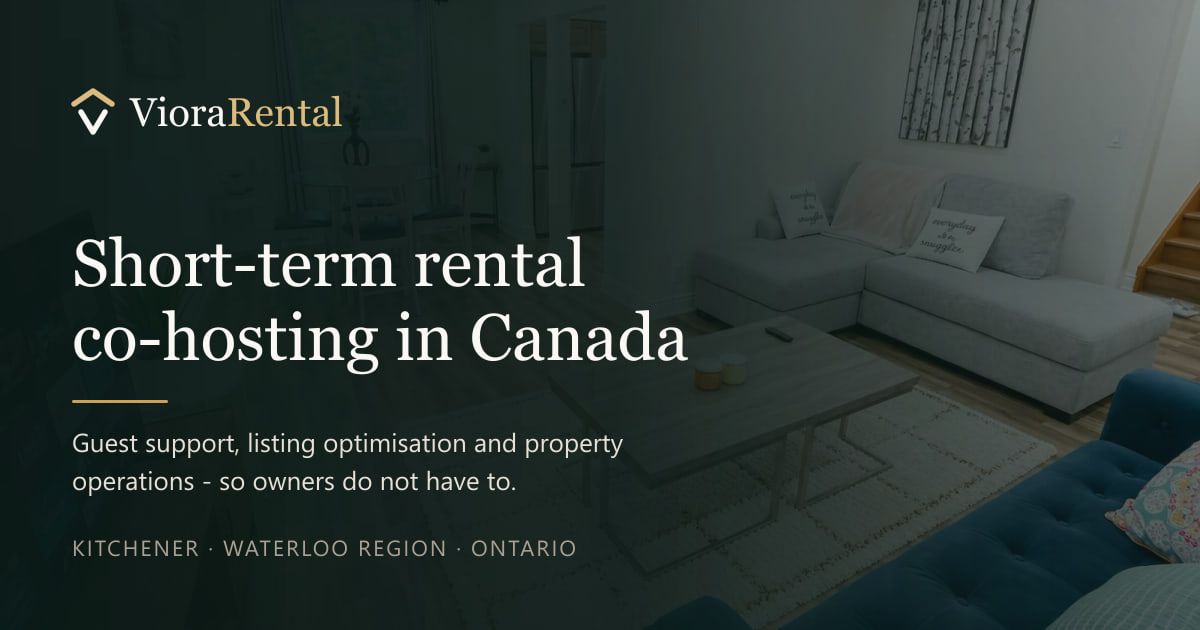
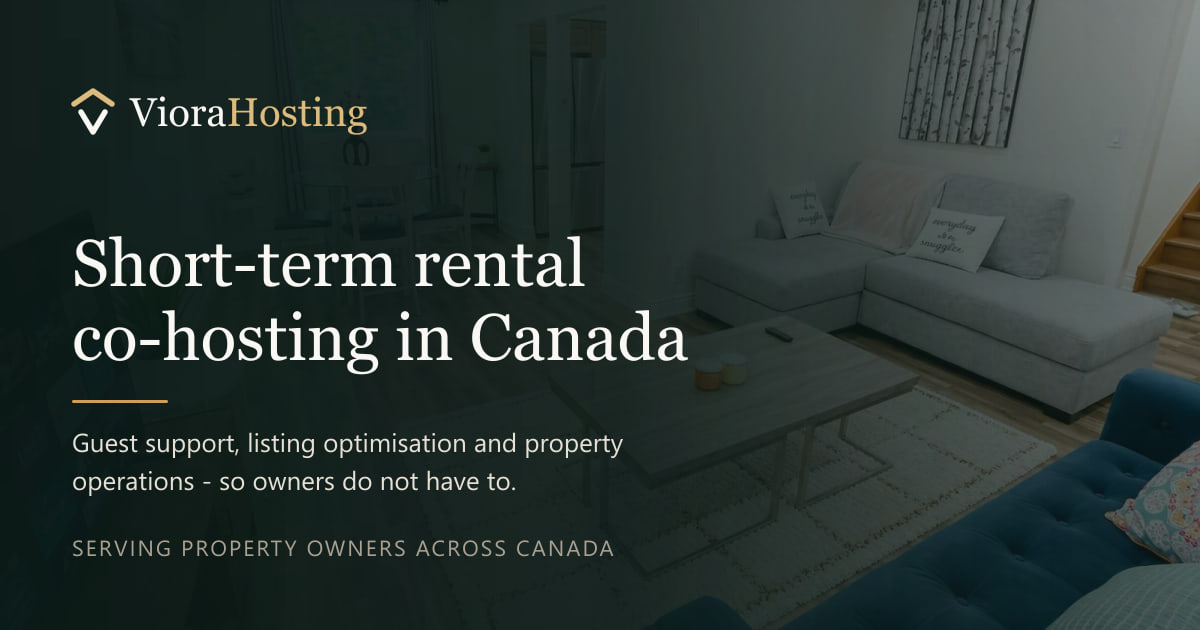
Fix the old VioraRental brand in shared-link previews; wrap long URLs
The Open Graph card every shared link shows still read "VioraRental"
and "Kitchener · Waterloo Region · Ontario". It now says VioraHosting
and "Serving property owners across Canada". logo.svg (the schema
logo fallback), the web manifest and the .htaccess header are renamed
too.

Blog prose wraps anywhere, so the plain-text source URLs in the new
guides no longer push the page wider than a phone screen.

Changed region(s): [[0.0617, 0.8444, 0.5242, 0.9048], [0.185, 0.1508, 0.3083, 0.2111]]

diff --git a/src/app/globals.css b/src/app/globals.css
@@ -513,6 +513,9 @@
     color: var(--color-ink-muted);
     font-size: 1.0625rem;
     line-height: 1.75;
+    /* Source lists carry long unbroken URLs; without this they push the
+       page wider than a phone screen. */
+    overflow-wrap: anywhere;
   }
 
   .prose-viora > * + * {
